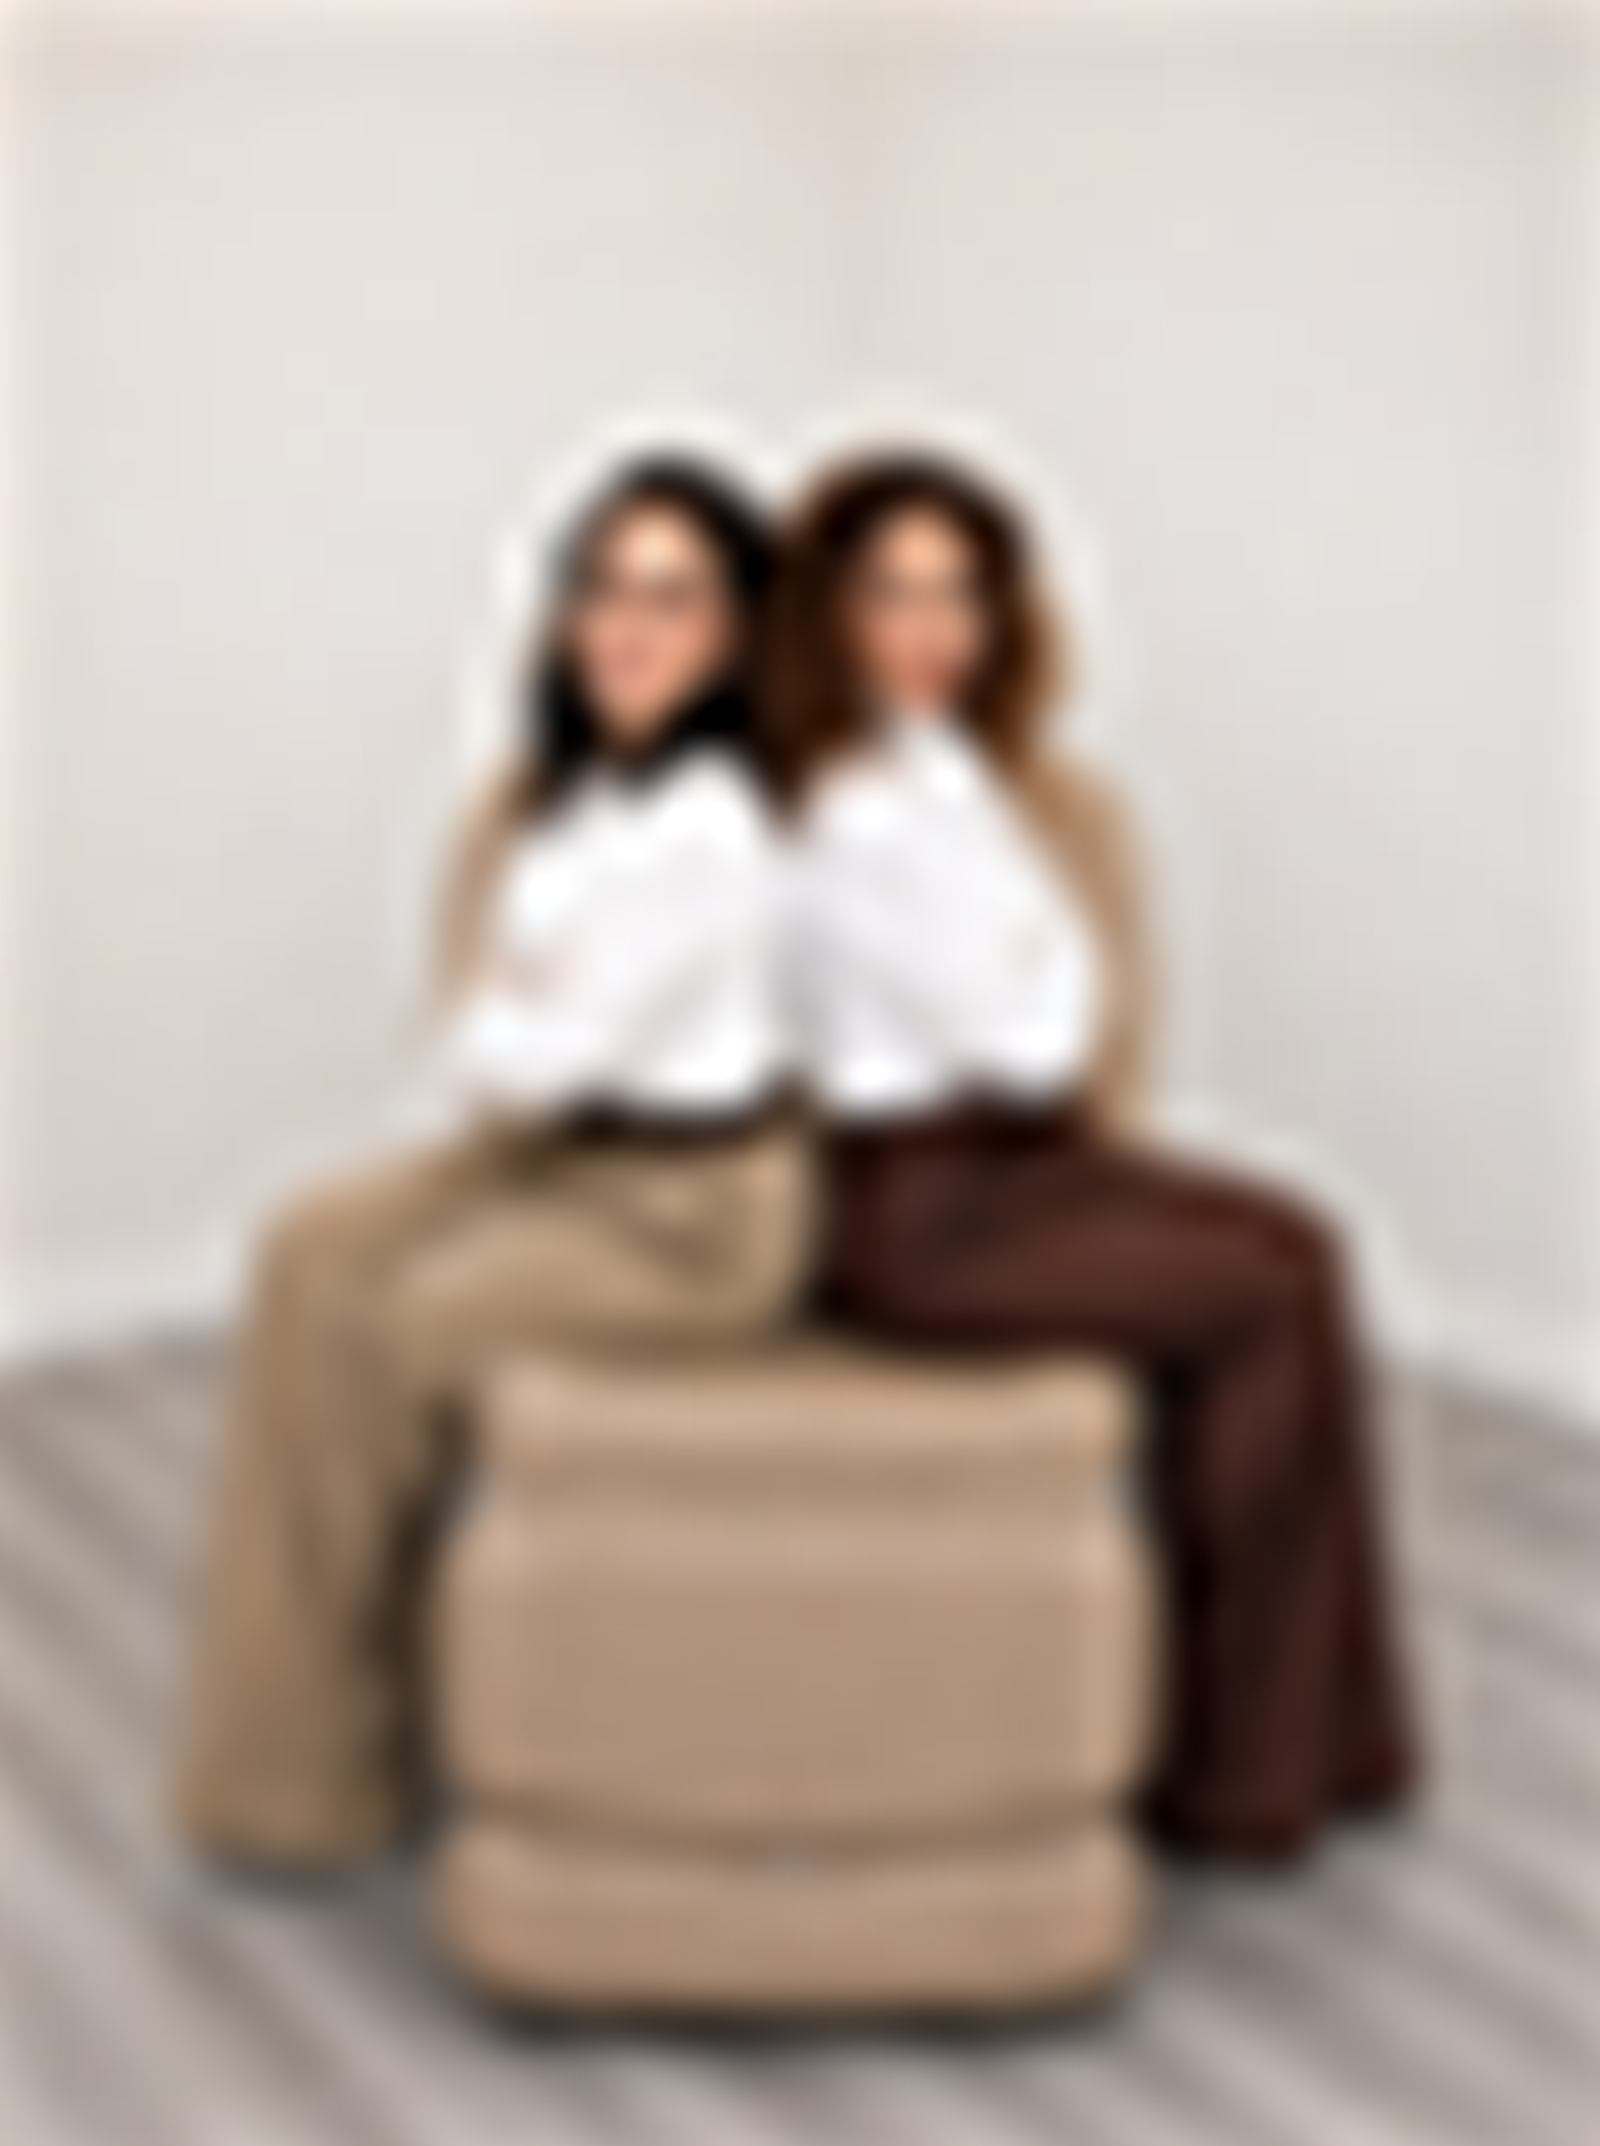
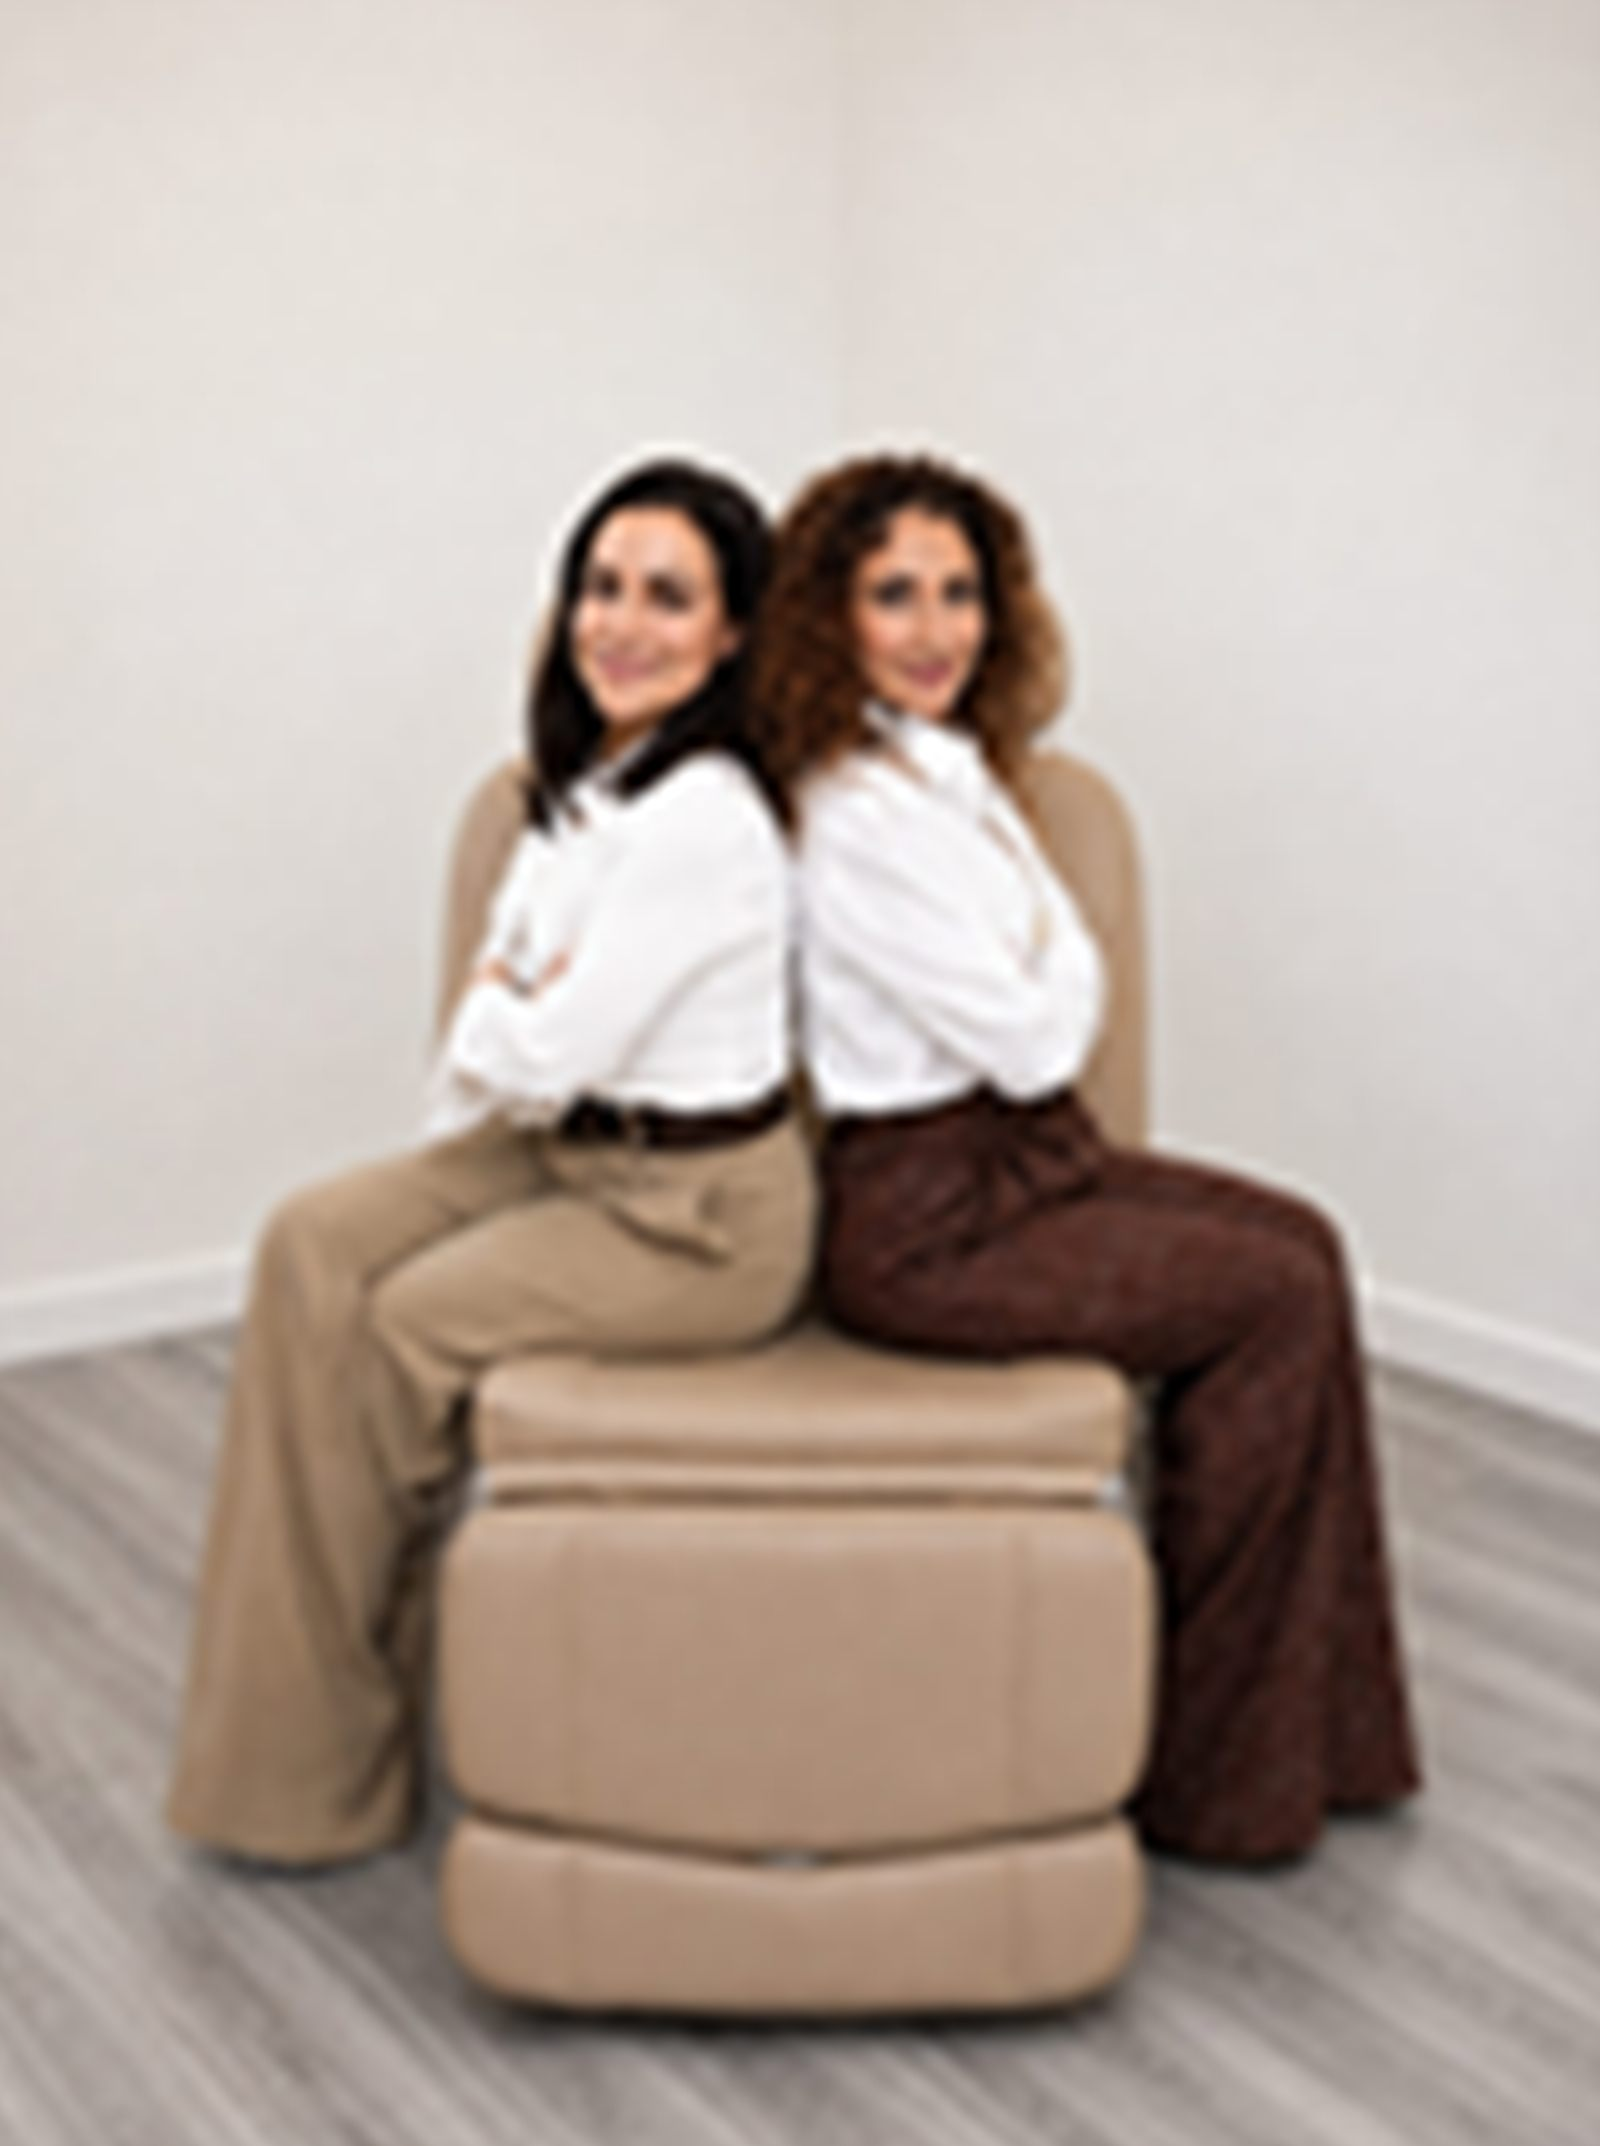
Soften the hero blur and drop the sharp portrait
The hero keeps its photographic field and loses the portrait layer; nothing
moves into Meet the founders, which stays typographic.

- The blurred asset was resampled down to 46px before being enlarged, which
  read as an abstract wash rather than as them. Regenerated from 130px, so
  they are recognisably themselves and still clearly out of focus. The CSS
  pass on top drops from 8px to 3px, and the scale from 1.08 to 1.05.
- The veil opens up to match: on desktop it runs .95 on the left where the
  type sits down to .14 on the right, where the photograph is the point.
- The hero lead is now espresso rather than mocha. That is what pays for the
  lighter veil: measured under the real glyphs against the real composite,
  mocha on the new mobile veil came to 4.37:1, just under the 4.5 it needs.
  Espresso takes the same spot to 8.67:1, so the veil could come down from
  .90/.87/.85 to .84/.81/.79 and show more of the photograph rather than less.

Measured across 320 to 1600: heading 8.6-12.6:1, lead 8.7-12.6:1, against
thresholds of 3 and 4.5.

founders-portrait.jpg is no longer on any page. It is kept as the og:image
and schema image, where a real photograph of the two of them is the right
thing to hand a social card.

QA: 45 combinations across 5 pages and 9 widths, clean. Worst gap 263px. No
price, service name or copy changed.

diff --git a/assets/css/site.css b/assets/css/site.css
@@ -852,11 +852,10 @@ a.svc:hover .svc__name, a.svc:focus-visible .svc__name { transform: translateX(8
 [data-stagger].is-in > *:nth-child(6) { transition-delay: .45s; }
 
 /* ---------- Founders hero ------------------------------------------------
-   The practice is the two of them, so the page opens on their photograph. A
-   blurred, enlarged crop of that same photo is the ambient field; the sharp
-   waist-up crop is the focal portrait. Warm and light-grounded, so the type
-   is espresso rather than reversed out of a dark scrim. No face is altered:
-   both layers are crops of one supplied image. */
+   The practice is the two of them, so the page opens on their own photograph,
+   softly out of focus behind a warm veil. Light-grounded, so the type is
+   espresso rather than reversed out of a dark scrim. No face is altered: the
+   field is a resampled enlargement of the supplied image. */
 .hero-fp {
   position: relative;
   isolation: isolate;
@@ -869,42 +868,37 @@ a.svc:hover .svc__name, a.svc:focus-visible .svc__name { transform: translateX(8
 .hero-fp__bg img {
   width: 100%; height: 100%;
   object-fit: cover;
-  object-position: 50% 32%;
-  /* The asset is already a resample blur; this small extra softening hides the
-     resample seams, and the scale keeps the blurred edge off the frame. */
-  filter: blur(8px);
-  transform: scale(1.08);
+  object-position: 50% 30%;
+  /* The asset carries the blur as a resample (downsampled to 130px, back up
+     to 1600). This pass only softens the resample grid — deliberately light,
+     because they should still read as themselves. */
+  filter: blur(3px);
+  transform: scale(1.05);
 }
-
-/* Warm veil: a wash so the blurred field reads as tone rather than a second
-   photograph competing with the portrait, and so espresso type clears AA over
-   it. Heavier on the left where the copy sits, lighter over the portrait. */
+/* Warm veil. Heavy on the left, where the type sits and has to clear AA;
+   thin on the right, where the photograph is the whole point. */
 .hero-fp__veil {
   position: absolute; inset: 0; z-index: 1;
   background:
-    linear-gradient(105deg, rgba(242,235,225,.95) 0%, rgba(242,235,225,.88) 42%, rgba(242,235,225,.58) 68%, rgba(239,230,219,.36) 100%),
-    linear-gradient(to top, rgba(242,235,225,.66), rgba(242,235,225,0) 40%);
+    linear-gradient(100deg, rgba(242,235,225,.95) 0%, rgba(242,235,225,.88) 34%, rgba(242,235,225,.46) 62%, rgba(242,235,225,.14) 100%),
+    linear-gradient(to top, rgba(242,235,225,.40), rgba(242,235,225,0) 32%);
 }
 .hero-fp__inner { position: relative; z-index: 2; width: 100%; }
 .hero-fp__grid { align-items: center; row-gap: var(--sp-3); }
 .hero-fp__copy { grid-column: 1 / -1; }
-.hero-fp__media { grid-column: 1 / -1; }
 @media (min-width: 860px) {
   .hero-fp { min-height: 100svh; display: flex; align-items: center; }
-  .hero-fp__copy  { grid-column: 1 / 7; }
-  .hero-fp__media { grid-column: 7 / -1; }
+  .hero-fp__copy { grid-column: 1 / 7; }
 }
 @media (min-width: 1200px) {
-  .hero-fp__copy  { grid-column: 1 / 6; }
-  .hero-fp__media { grid-column: 7 / -1; }
+  .hero-fp__copy { grid-column: 1 / 6; }
 }
-/* Sized to its column, not to the viewport. --fs-h1 tops out at 139px, which
-   is right for a full-bleed hero but wraps "Look well." onto two lines inside
-   this 514px copy column and pushed the hero to 128% of the viewport. */
+/* Sized to its column rather than the viewport: --fs-h1 tops out at 139px,
+   which wraps "Look well." onto two lines inside this measure. */
 .hero-fp .h1 { color: var(--espresso); font-size: clamp(2.9rem, 1.6rem + 5.2vw, 6.25rem); }
 .hero-fp .it { color: var(--gold-ink); }
 .hero-fp__lead {
-  color: var(--mocha);
+  color: var(--espresso);
   font-family: var(--display);
   font-size: var(--fs-lead);
   line-height: 1.4;
@@ -912,32 +906,18 @@ a.svc:hover .svc__name, a.svc:focus-visible .svc__name { transform: translateX(8
   margin-top: var(--sp-2);
 }
 .hero-fp .btn-row { margin-top: var(--sp-3); }
-/* The portrait: an editorial frame capped so the 810px asset is never
-   upscaled, anchored to the right of its column on desktop. */
-.hero-fp__frame {
-  aspect-ratio: 81 / 83;
-  max-width: 500px;
-  margin-inline: auto;
-  overflow: hidden;
-  background: var(--shell);
-  box-shadow: 0 30px 60px -34px rgba(43, 35, 32, .38);
-}
-@media (min-width: 860px) { .hero-fp__frame { margin-right: 0; } }
-/* Stacked: the portrait sits under the copy, so it is capped and the padding
-   pulled in to keep the whole opening close to one screen. */
 @media (max-width: 859px) {
-  .hero-fp { padding-top: 96px; padding-bottom: clamp(40px, 6vw, 64px); }
-  .hero-fp__frame { max-width: min(320px, 82%); }
+  .hero-fp { padding-top: 104px; padding-bottom: clamp(56px, 8vw, 80px); }
   .hero-fp__lead { max-width: 30ch; }
-  /* Stacked, the copy runs the full width, so it crosses the thin right-hand
-     end of the directional veil and sits over the dark hair in the blurred
-     field. Measured there, the lead fell to 2.01:1. An even veil instead:
-     the darkest pixel under it leaves the lead at 4.8:1. */
+  /* Stacked, the copy runs the full width and crosses the thin right-hand end
+     of the directional veil, landing over the dark hair in the field. Measured
+     there it fell to 2.01:1, so the veil is even at this size instead. The
+     lead is set in espresso rather than mocha, which buys the contrast that
+     would otherwise cost a heavier veil over the photograph. */
   .hero-fp__veil {
-    background: linear-gradient(to bottom, rgba(242,235,225,.93) 0%, rgba(242,235,225,.90) 55%, rgba(242,235,225,.88) 100%);
+    background: linear-gradient(to bottom, rgba(242,235,225,.84) 0%, rgba(242,235,225,.81) 55%, rgba(242,235,225,.79) 100%);
   }
 }
-.hero-fp__frame img { width: 100%; height: 100%; object-fit: cover; object-position: 50% 22%; }
 
 /* ---------- Founders ------------------------------------------------------
    Typographic, not a split with a photograph: the hero directly above already

diff --git a/index.html b/index.html
@@ -35,8 +35,7 @@ body{background:#F7F3EC}
 <link rel="icon" href="assets/img/favicon.png" type="image/png">
 <link rel="preconnect" href="https://fonts.googleapis.com">
 <link rel="preconnect" href="https://fonts.gstatic.com" crossorigin>
-<link rel="preload" as="image" href="assets/img/founders-portrait.jpg" fetchpriority="high">
-<link rel="preload" as="image" href="assets/img/founders-hero-bg.jpg">
+<link rel="preload" as="image" href="assets/img/founders-hero-bg.jpg" fetchpriority="high">
 <link href="https://fonts.googleapis.com/css2?family=Cormorant+Garamond:ital,wght@0,400;0,500;0,600;1,400&family=Manrope:wght@400;500&family=Sacramento&display=swap" rel="stylesheet">
 <script>/* Reveal gate. Hiding is only permitted while this failsafe is armed;
    site.js disarms it once an observer is confirmed running. If site.js is
@@ -167,19 +166,12 @@ w.addEventListener("error",function(e){if(e.target&&e.target.tagName==="SCRIPT")
             </a>
           </div>
         </div>
-        <div class="hero-fp__media" data-reveal="mask" data-delay="60">
-          <figure class="figure hero-fp__frame">
-            <img src="assets/img/founders-portrait.jpg"
-                 alt="Dr. Sheila Omrani and Nurse Lisa Farazmand at their Great Neck practice."
-                 width="810" height="830" fetchpriority="high" decoding="async">
-          </figure>
-        </div>
       </div>
     </div>
   </section>
 
-  <!-- MEET THE FOUNDERS — typographic. Their portrait carries the hero directly
-       above, so repeating it here would say the same thing twice. -->
+  <!-- MEET THE FOUNDERS — typographic. The hero above already carries their
+       photograph, so repeating it here would say the same thing twice. -->
   <section class="section founders">
     <div class="shell">
       <div class="grid founders__grid">
